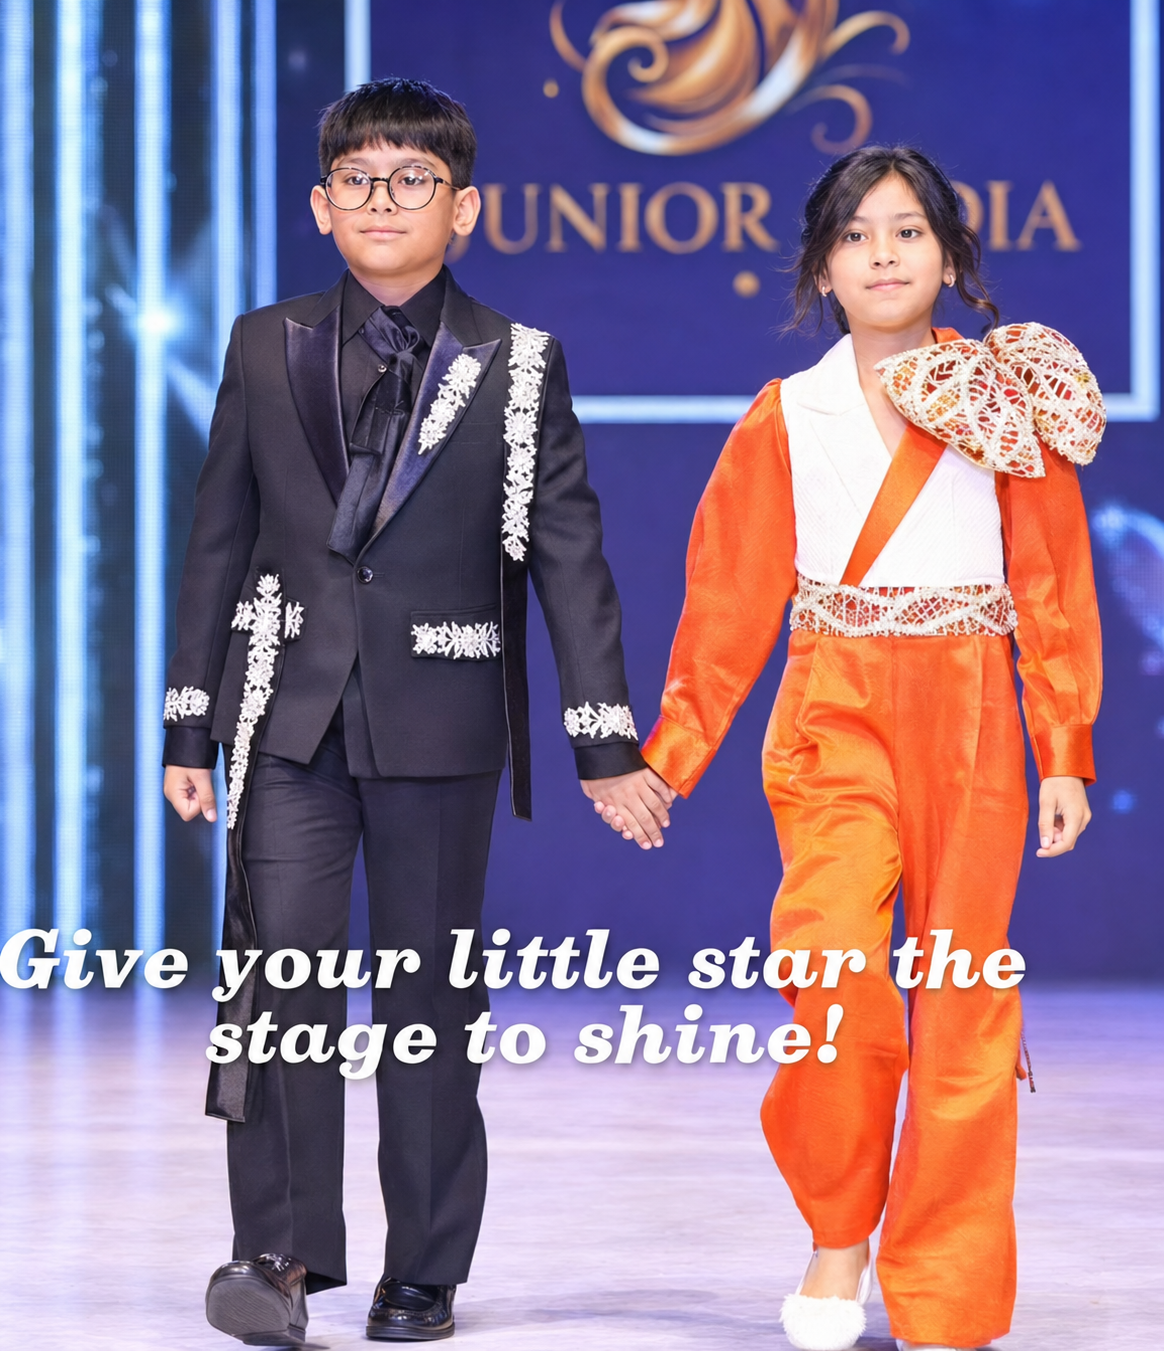
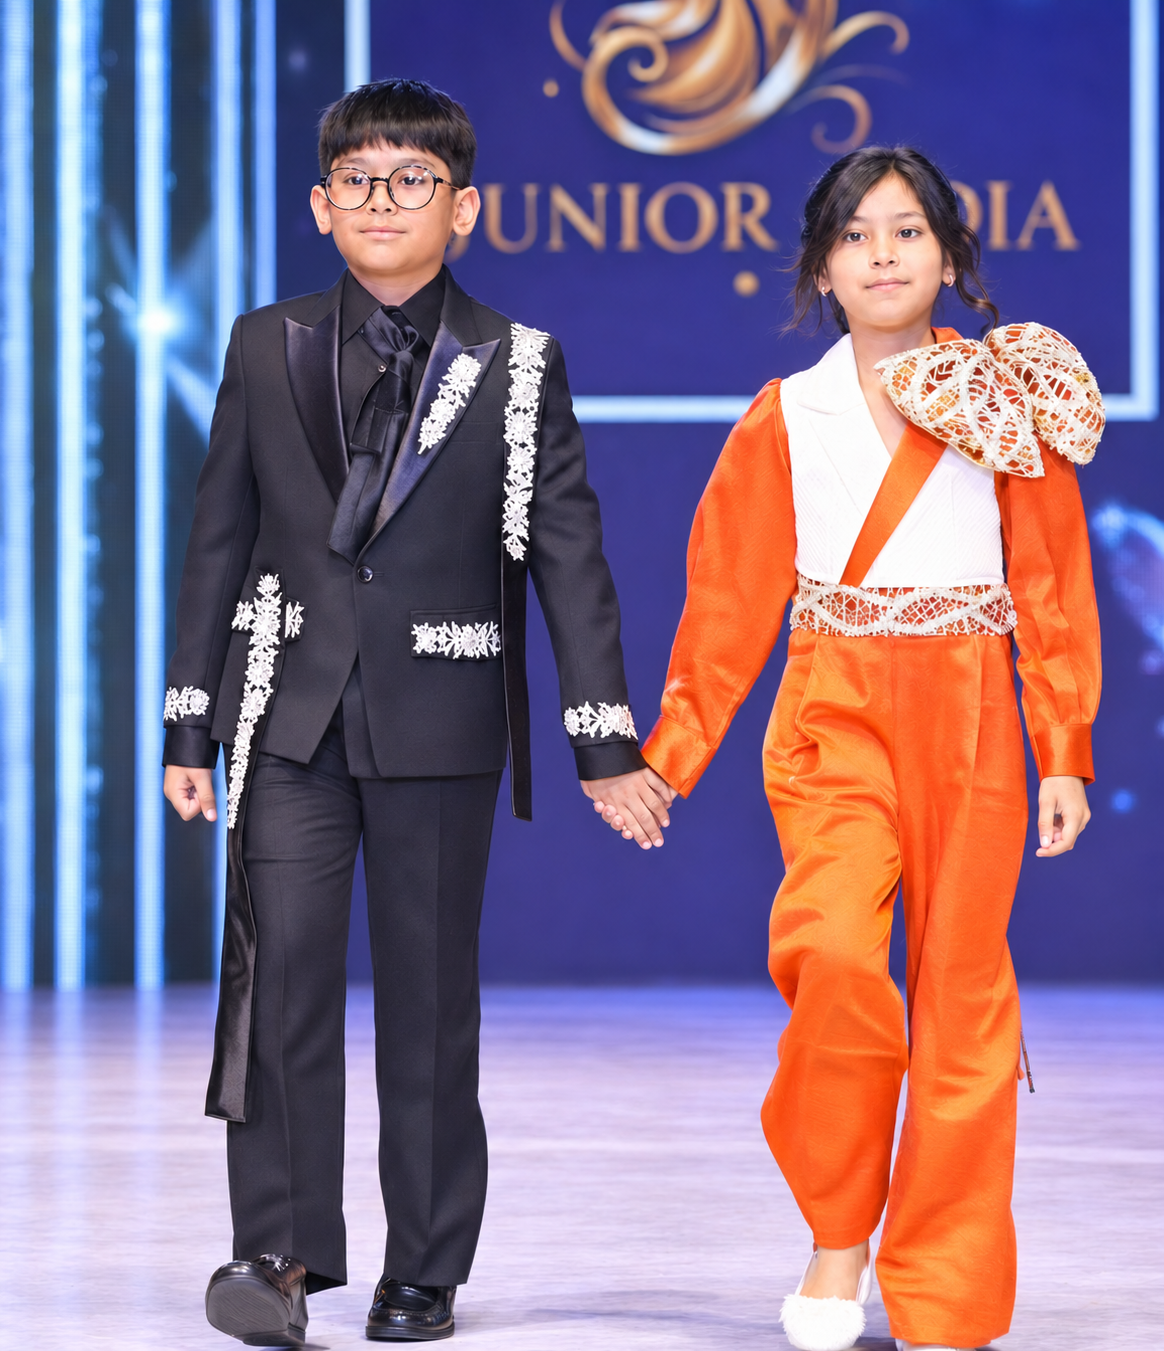
fix: align youth category card

diff --git a/Miss Mrs Maharashtra website from zip/src/pages/Home.tsx b/Miss Mrs Maharashtra website from zip/src/pages/Home.tsx
@@ -74,9 +74,6 @@ export function HomeCategorySelector({ navigate }: { navigate: (page: PageKey) =
             decoding="async"
           />
           <div className="luxury-hover-overlay absolute inset-0 bg-gradient-to-t from-[#061122] via-[#061122]/38 to-transparent" />
-          {category.key === "junior-india" ? (
-            <div aria-hidden="true" className="absolute inset-x-0 bottom-0 h-[52%] bg-gradient-to-t from-[#061122] via-[#061122] to-[#061122]/90" />
-          ) : null}
           <div className="absolute left-0 top-0 bg-[#061122]/90 px-5 py-4 text-[10px] uppercase tracking-[.24em] text-blush-accent backdrop-blur-sm">
             <span className="block">{category.kicker}</span>
           </div>
